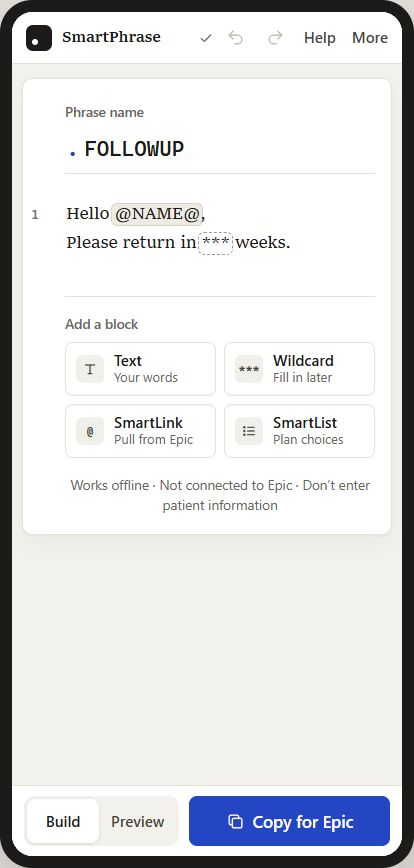
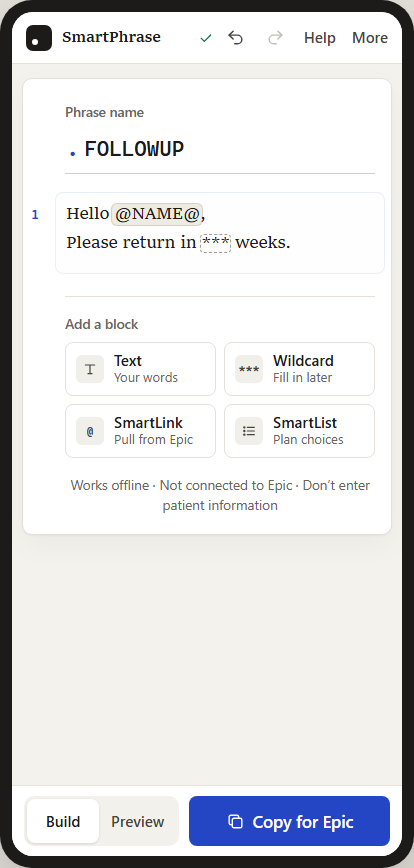
Keep Node 18 support and add browser regression (#2)

diff --git a/index.html b/index.html
@@ -141,7 +141,8 @@ code, .mono { font-family: var(--mono); }
 .ink .doc-text { position: relative; }
 .ib { border-radius: 3px; -webkit-box-decoration-break: clone; box-decoration-break: clone; }
 .ib-link { background: #eeebe4; box-shadow: 0 0 0 2px #eeebe4, 0 0 0 3px #d6d0c5; }
-.ib-wild { outline: 1px dashed #a39d91; outline-offset: 2px; }
+/* Keep the outline on the token edge so the real following space also reads as a visual gap. */
+.ib-wild { outline: 1px dashed #a39d91; outline-offset: 0; }
 .ib-plan { background: var(--amber-wash); box-shadow: 0 0 0 2px var(--amber-wash), 0 0 0 3px var(--amber-line); }
 .ib-br { position: relative; }
 .ib-br::after { content: "\21B5"; position: absolute; left: 4px; top: .2em; font: 12px/1 var(--sans); color: #aca69a; opacity: 0; transition: opacity var(--t); }

diff --git a/src/styles/02-editor.css b/src/styles/02-editor.css
@@ -56,7 +56,8 @@
 .ink .doc-text { position: relative; }
 .ib { border-radius: 3px; -webkit-box-decoration-break: clone; box-decoration-break: clone; }
 .ib-link { background: #eeebe4; box-shadow: 0 0 0 2px #eeebe4, 0 0 0 3px #d6d0c5; }
-.ib-wild { outline: 1px dashed #a39d91; outline-offset: 2px; }
+/* Keep the outline on the token edge so the real following space also reads as a visual gap. */
+.ib-wild { outline: 1px dashed #a39d91; outline-offset: 0; }
 .ib-plan { background: var(--amber-wash); box-shadow: 0 0 0 2px var(--amber-wash), 0 0 0 3px var(--amber-line); }
 .ib-br { position: relative; }
 .ib-br::after { content: "\21B5"; position: absolute; left: 4px; top: .2em; font: 12px/1 var(--sans); color: #aca69a; opacity: 0; transition: opacity var(--t); }

diff --git a/test/project.test.js b/test/project.test.js
@@ -39,3 +39,14 @@ test("every source module carries a human handoff note", () => {
     }
   }
 });
+
+test("build tools honor the stated Node 18 floor", () => {
+  const manifest = JSON.parse(fs.readFileSync(path.join(root, "package.json"), "utf8"));
+  assert.equal(manifest.engines.node, ">=18");
+
+  for (const name of ["build.mjs", "dev-server.mjs"]) {
+    const source = fs.readFileSync(path.join(root, "scripts", name), "utf8");
+    assert.doesNotMatch(source, /import\.meta\.dirname/, `${name} uses a Node 20.11 API`);
+    assert.match(source, /fileURLToPath\(import\.meta\.url\)/, `${name} needs Node 18-compatible module paths`);
+  }
+});

diff --git a/README.md b/README.md
@@ -93,7 +93,8 @@ src/styles/                  design tokens, layout, components, responsive rules
 src/js/core.js               shared output rules and import validation
 src/js/app/                  focused browser modules, ordered by filename
 scripts/build.mjs            deterministic one-file build
-test/                        Node tests with no outside test framework
+test/                        unit tests and one focused browser flow
+.github/workflows/ci.yml     Node 18 build and Chromium regression check
 examples/                    safe generic draft files
 index.html                   generated offline release
 ```
@@ -102,15 +103,17 @@ The browser and tests use the same shared core. Application modules are kept bel
 
 ### Commands
 
-Node 18 or newer is enough. No dependency install is required.
+Node 18 or newer is enough. Opening `index.html` still needs no install. Contributors install the pinned test tools once:
 
 ```bash
+npm ci
+npx playwright install chromium
 npm run build
 npm test
 npm run check
 ```
 
-`npm run check` rebuilds the release, runs all tests, and proves that `index.html` matches the modular source.
+`npm run check` rebuilds the release, runs the unit tests plus the Chromium interaction test, and proves that `index.html` matches the modular source. The browser test protects the inline picker, app undo, and clipboard flow. CI runs the same command on the stated Node 18 minimum.
 
 ### Compatibility and storage
 
@@ -144,7 +147,7 @@ Epic, SmartPhrase, SmartLink, SmartList, and SmartObject are names used only to 
 - Epic configuration and available SmartTools vary by organization.
 - The public project does not include an organization-specific catalog or clinical content.
 - Draft checks cannot establish that a phrase is clinically appropriate or configured correctly in Epic.
-- Automated tests cover the shared output rules, import boundaries, generated release, and modularity. Cross-browser, screen-reader, and clinical-workflow review still require people and approved test environments.
+- Automated tests cover the shared output rules, import boundaries, generated release, modularity, and the main picker → undo → copy flow in Chromium. Other browsers, screen readers, and clinical workflows still require people and approved test environments.
 
 ## Project history
 
